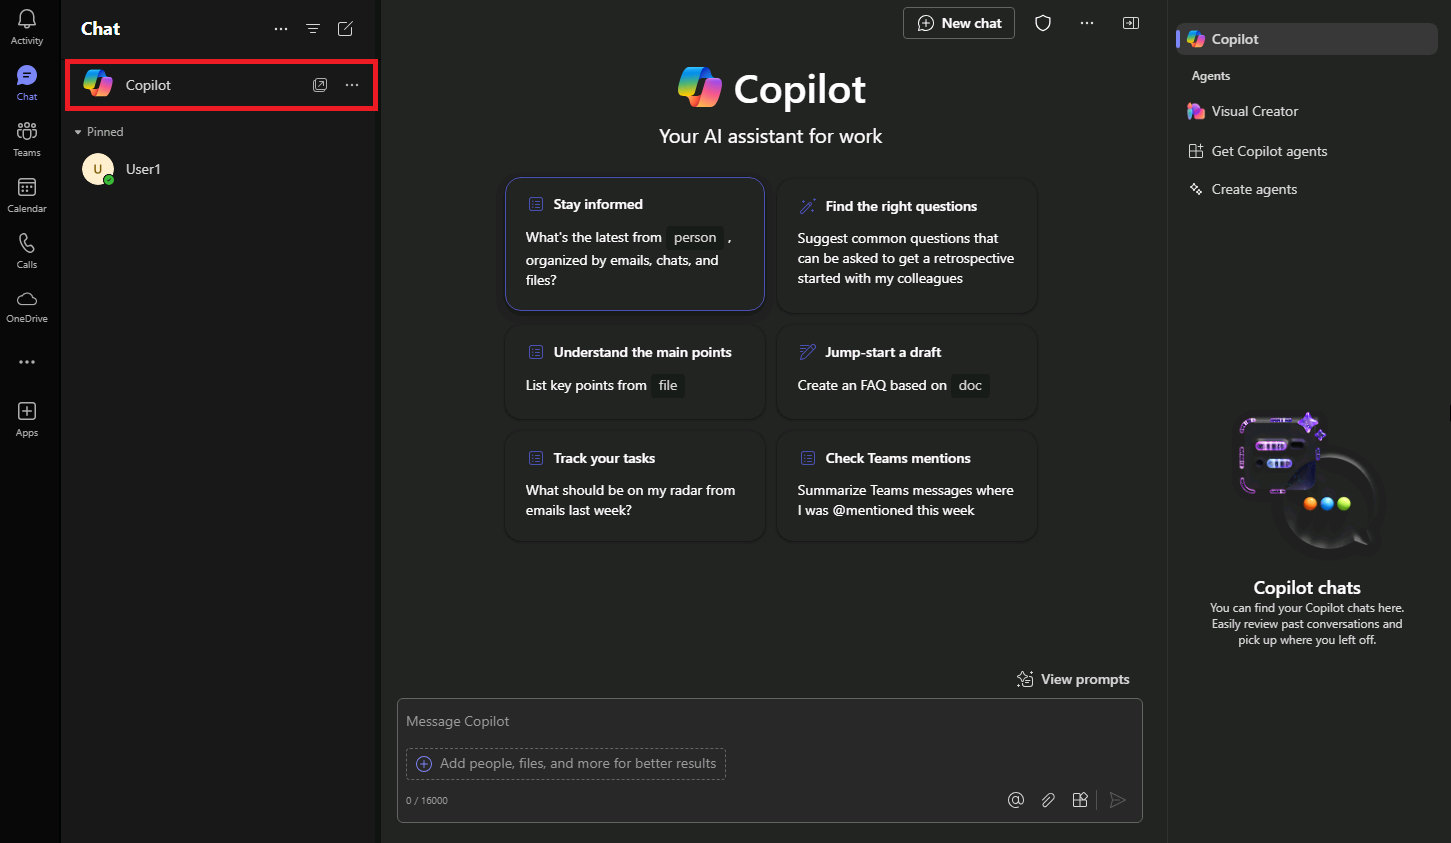
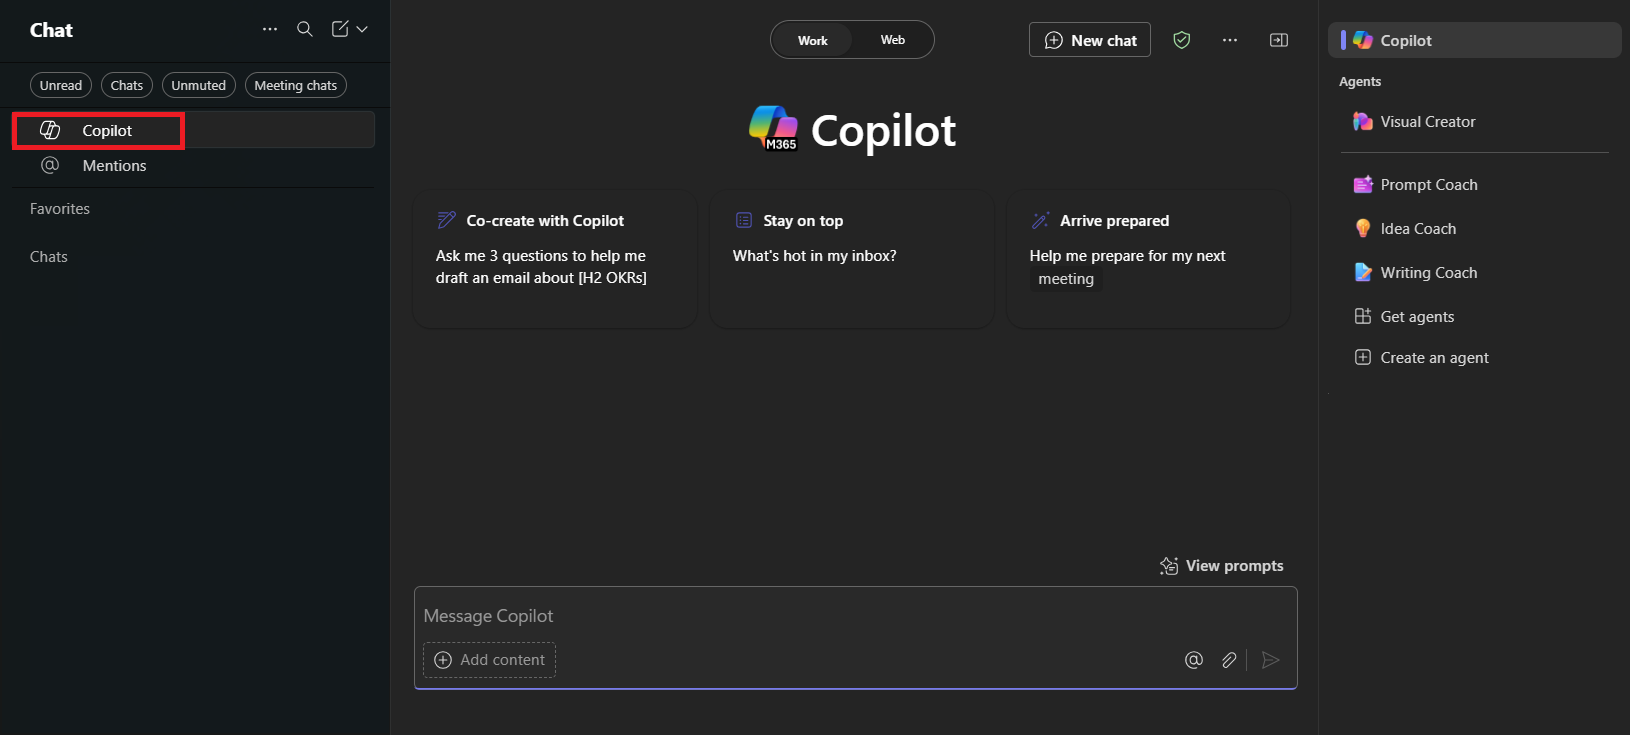
Updates

diff --git a/Instructions/Prompts/Business-Manager-Prompts.md b/Instructions/Prompts/Business-Manager-Prompts.md
@@ -10,8 +10,8 @@ Optimize daily tasks by reviewing communications, sending an email, and preparin
 You will perform three tasks:  
 
 - Review communications using **Microsoft 365 Copilot Chat**.  
+- Prepare meeting talking points using **Copilot in Pages**.
 - Draft a follow-up email using **Copilot in Outlook**.  
-- Prepare meeting talking points using **Copilot in Pages**.  
 
 > **NOTE:** Sample prompts are provided to help you get started. Feel free to personalize them to suit your needs—be creative and explore! If Copilot doesn’t deliver the result you want, refine your prompt and try again. Enjoy the process and have fun experimenting!  
 
@@ -19,10 +19,59 @@ You will perform three tasks:
 
 Using **Microsoft 365 Copilot Chat**, gather insights from recent interactions with a specific person about a particular topic or project. Focus on identifying key points, action items, and any outstanding questions. This ensures you stay up-to-date on team projects and can keep stakeholders informed of progress, challenges, and outcomes.  
 
-### Task 2: Send a follow-up email  
+**Steps**:
 
-Using **Copilot in Outlook**, draft a follow-up email based on the insights gathered in Microsoft 365 Copilot Chat. Include details such as progress updates, pending actions, next steps, and a request for a follow-up meeting to discuss further.  
+- Open a new browser tab and navigate to [M365copilot.com](https://m365copilot.com/).
+- Ensure the "Work mode" tab is selected in Copilot Chat:
 
-### Task 3: Prepare for a meeting  
+    ![screenshot showing Work mode tab.](../Prompts/Media/work-mode.png)
 
-Using **Copilot in Pages**, create talking points for an upcoming stakeholder meeting based on the insights gathered in Microsoft 365 Copilot Chat. Focus on progress updates, key dates, challenges or risks, and actionable next steps to ensure a productive discussion.  
+**Sample Prompt**:
+
+```text
+Summarize my recent interactions with [/Name of Person] regarding [specific topic or project]. Organize the summary by key points or actions discussed, and include any follow-up items or outstanding questions that may require attention.
+```
+
+> **NOTE:** Replace [Name of Person] with the person you’re focusing on, and [specific topic or project] with the relevant topic. Use the **/** character (slash) to reference internal contacts for quick access to recent interactions.
+
+### Task 2: Prepare for a meeting  
+
+Using **Copilot in Pages**, create talking points for an upcoming stakeholder meeting based on the insights gathered in Microsoft 365 Copilot Chat. Focus on progress updates, key dates, challenges or risks, and actionable next steps to ensure a productive discussion.
+
+**Steps**:
+
+1. Under **Copilot Chat's response** from the previous task, select **Edit in Pages**:  
+   ![screenshot showing Copilot in Pages.](../Prompts/Media/edit_in_pages.png)
+
+2. In the new Pages screen that opens, select **View all Pages**:  
+   ![screenshot showing Copilot in Pages.](../Prompts/Media/view-all-pages.png)
+
+3. In the new Pages window, interact with Copilot by selecting the **Copilot Icon** on the right-hand side of the document.
+
+**Sample Prompt**:
+
+```text
+Using these insights, draft talking points for an upcoming stakeholder meeting. Focus on progress updates, key dates, challenges and next steps. 
+```
+
+> **Tip:**  
+> - Pages can be used as a collaborative space to work with your colleagues in real-time. Share the page by typing the "@" symbol followed by a colleague’s name.
+> - After adding your colleague, click on their name to give them access. They will receive an email notification with a link to collaborate on the page.  
+
+### Task 3: Send a follow-up email  
+
+Using **Copilot in Outlook**, draft a follow-up email based on the insights gathered in Microsoft 365 Copilot Chat. Include details such as progress updates, pending actions, next steps, and a request for a follow-up meeting to discuss further.
+
+**Steps**:
+
+- In **Outlook**, select **New Email** and then  from the ribbon select **Copilot** > **Draft with Copilot**
+
+    ![screenshot showing Copilot in Outlook.](../Prompts/Media/copilot-outlook-desktop.png)
+
+**Sample Prompt**:
+
+```text
+Using the insights below, draft a follow-up email to [Name of Person] requesting an update on progress and next steps. Also, ask for a follow-up meeting to discuss further on the project deadline. 
+
+[Paste insights from Copilot Chat here, or add your own insights]
+```

diff --git a/Instructions/Prompts/IT-Prompts.md b/Instructions/Prompts/IT-Prompts.md
@@ -10,7 +10,7 @@ Drive tech engagement and user satisfaction by researching upcoming product or s
 You will perform three tasks:  
 
 - Research upcoming features using **Microsoft 365 Copilot Chat**.  
-- Draft an announcement using **Copilot in Notes**.  
+- Draft an announcement using **Copilot in Word**.  
 - Create a survey using **Copilot in Forms**.  
 
 > **NOTE:** Sample prompts are provided to help you get started. Feel free to personalize them to suit your needs—be creative and explore! If Copilot doesn’t deliver the result you want, refine your prompt and try again. Enjoy the process and have fun experimenting!
@@ -19,10 +19,50 @@ You will perform three tasks:
 
 Using **Microsoft 365 Copilot Chat**, research the upcoming features of a product or service of your choice. Focus on identifying updates that align with your organization’s goals and address key business needs.  
 
+**Steps**:
+
+- Open a new browser tab and navigate to [M365copilot.com](https://m365copilot.com/)
+
+**Sample Prompt**:
+
+```text
+Pull a list of [Microsoft 365] features releasing in the next 90 days
+```
+
+> **NOTE:** Replace [Microsoft 365] with the product or service you're focusing on.
+
 ### Task 2: Draft an announcement  
 
-Using **Copilot in Notes**, draft an engaging announcement for end users about new features in the product or service of your choice. Highlight the key benefits, practical uses, and how these features may simplify everyday tasks.  
+Using **Copilot in Word**, draft an engaging announcement for end users about new features in the product or service of your choice. Highlight the key benefits, practical uses, and how these features may simplify everyday tasks.  
+
+**Steps**:
+
+- Launch Microsoft Word from your browser ([word.new](https://word.new)) or use the desktop application.
+- Enter your prompt where it says **"Describe what you'd like to write"**.
+
+    ![screenshot showing Copilot in Word.](../Prompts/Media/draft-with-copilot.png)
+
+**Sample Prompt**:
+
+```text
+Draft a post about the upcoming features in [Microsoft 365: (list of features)]. Describe the benefits to help drive adoption. 
+```
+
+> **NOTE:** Replace [Microsoft 365: (list of features)] with the specific product & features you're focusing on.
 
 ### Task 3: Create a survey  
 
 Using **Copilot in Forms**, create a survey to collect user feedback about their experiences with Microsoft 365. Include questions about satisfaction, usability, and any potential pain points.  
+
+**Steps**:
+
+- Open a new browser tab and navigate to [forms.office.com]https://forms.office.com/
+- Select **New form** in the top left hand corner of the screen.
+
+**Sample Prompt**:
+
+```text
+Create a survey to capture feedback from users in my organization to understand their experience and satisfaction with [Microsoft 365] products and services.
+```
+
+> **NOTE:** Replace [Microsoft 365] with the product or service you're focusing on.

diff --git a/Instructions/Prompts/EA-Prompts.md b/Instructions/Prompts/EA-Prompts.md
@@ -19,10 +19,46 @@ You will perform three tasks:
 
 Using **Microsoft 365 Copilot Chat**, catch up on emails, chats, and meetings from specific leaders and stakeholders. Focus on identifying key discussions, action items, and updates to ensure you're fully informed and ready to respond.  
 
+**Steps**:
+
+- Open a new browser tab and navigate to [M365copilot.com](https://m365copilot.com/).
+- Ensure the "Work mode" tab is selected in Copilot Chat:
+
+    ![screenshot showing Work mode tab.](../Prompts/Media/work-mode.png)
+
+**Sample Prompt**:
+  
+```text
+Summarize all email, meetings and chats from [/name of person] over the last 7 days and list any action items I may have from these interactions.
+```
+
+> **NOTE:** Replace [Name of Person] with the person you’re focusing on. Use the **/** character (slash) to reference internal contacts for quick access to recent interactions.
+
 ### Task 2: Prepare for your day  
 
 Using **Microsoft 365 Copilot Chat**, plan your day and review upcoming meetings. Create a to-do list or categorize your meetings to ensure they align with your priorities. Focus on organizing your schedule to stay prepared and productive.  
 
-### Task 3: Draft a follow-up email  
+**Sample Prompt**:
+  
+```text
+Help me plan for my day and any upcoming meetings I may have today. 
+```
 
-Using **Copilot in Outlook**, draft a follow-up email for your executive based on the outcome of your latest meeting. Summarize the discussion, highlight key outcomes, address any issues, and outline next steps to keep everything on track.  
+### Task 3: Draft a follow-up email
+
+Using Copilot in Outlook, draft an email requesting updates or additional information on a recent topic or discussion. Provide any context needed to ensure clarity and alignment.
+
+**Steps**:
+
+- In **Outlook**, select **New Email** and then  from the ribbon select **Copilot** > **Draft with Copilot**
+
+    ![screenshot showing Copilot in Outlook.](../Prompts/Media/copilot-outlook-desktop.png)
+
+**Sample Prompt**:
+
+```text
+Draft an email to [Name of Person] requesting an update on [specific topic or project]. Include a brief summary of the context:  
+
+[Insert a one- to two-sentence summary or details here.]
+
+```

diff --git a/Instructions/Prompts/Sales-Prompts.md b/Instructions/Prompts/Sales-Prompts.md
@@ -19,9 +19,15 @@ You will perform three tasks:
 
 Using **Microsoft 365 Copilot Chat** (In teams), Gather and review insights from recent interactions with a customer on project implementation. These insights will help you understand customer concerns, progress, and any new opportunities to address during future engagements.
 
+**Steps**:
+
 - In **Microsoft Teams**, select **Copilot** at the top of the **Chat** pane.  This will open a **Copilot** window.
 
     ![screenshot showing Copilot Chat within Teams.](../Prompts/Media/Copilot-chat-in-teams.png)
+
+- Ensure the "Work mode" tab is selected in Copilot Chat:
+
+    ![screenshot showing Work mode tab.](../Prompts/Media/work-mode.png)
 
 **Sample Prompt**:
 
@@ -34,6 +40,8 @@ Summarize my recent interactions with [/Name of Person] regarding [specific cust
 ### Task 2: Align on Action Items
 
 Using **Copilot in Outlook**, draft a follow-up email based on the insights gathered from Copilot Chat. Include open action items, clarify responsibilities, and provide updates to a colleague or team to ensure alignment and accountability.
+
+**Steps**:
 
 - In **Outlook**, select **New Email** and then  from the ribbon select **Copilot** > **Draft with Copilot**
 
@@ -50,6 +58,9 @@ Using the insights below, draft a follow-up email to [Name of Person] highlighti
 ### Task 3: Prepare for a Customer Meeting
 
 Using **Copilot in Word**, draft talking points for an upcoming customer status update meeting. Ensure the talking points focus on key deliverables, address customer priorities, and provide clarity on next steps
+
+
+**Steps**:
 
 - Launch Microsoft Word from your browser [word.new](https://word.new) or use the desktop application.
 - Enter your prompt where it says **"Describe what you'd like to write"**.

diff --git a/Instructions/Prompts/Communications-Prompts.md b/Instructions/Prompts/Communications-Prompts.md
@@ -19,6 +19,8 @@ You'll perform three tasks:
 
 Using **Copilot Chat**, research your chosen social media platform to understand audience preferences, posting trends, and effective content styles. These insights will help you tailor your post to align with platform-specific best practices and audience expectations.
 
+**Steps**:
+
 - Open a new browser tab and navigate to [M365copilot.com](https://m365copilot.com/).
 
 **Sample Prompt**:
@@ -51,10 +53,14 @@ What are some creative post ideas for promoting a [product or idea]? Focus on en
 
 Using **Copilot in Word**, draft a concise and engaging social media post based on your research and brainstorming. Refine the post to align with your platform’s style and ensure it communicates your message clearly and effectively.
 
+**Steps**:
+
 - Launch Microsoft Word from your browser [word.new](https://word.new) or use the desktop application.
 - Enter your prompt where it says **"Describe what you'd like to write"**.
 
     ![screenshot showing Copilot in Word.](../Prompts/Media/draft-with-copilot.png)
+
+**Sample Prompt**:
 
 ```text
 Write a short and engaging social media post about [product or idea]. Make it clear, attention-grabbing, and aligned with the platform's style.

diff --git a/Instructions/Prompts/HR-Prompts.md b/Instructions/Prompts/HR-Prompts.md
@@ -19,6 +19,8 @@ You'll perform three tasks:
 
 Using **Copilot Chat**, research the latest trends and data on competitive job descriptions for your chosen role. Focus on identifying key skills, qualifications, and industry-specific needs to ensure your hiring process aligns with current market demands.
 
+**Steps**:
+
 - Open a new browser tab and navigate to [M365copilot.com](https://m365copilot.com/)
 
 **Sample Prompt**:
@@ -50,6 +52,8 @@ Using the insights from Task 1, create a job description template for [software 
 ### Task 3: Design an interview guide
 
 Using **Copilot in Word**, develop a reusable interview guide tailored to the role. Include structured questions to evaluate technical and behavioral competencies, as well as a scoring rubric to ensure consistent assessments across candidates.
+
+**Steps**:
 
 - Launch Microsoft Word from your browser ([word.new](https://word.new)) or use the desktop application.
 - Enter your prompt where it says **"Describe what you'd like to write"**.
